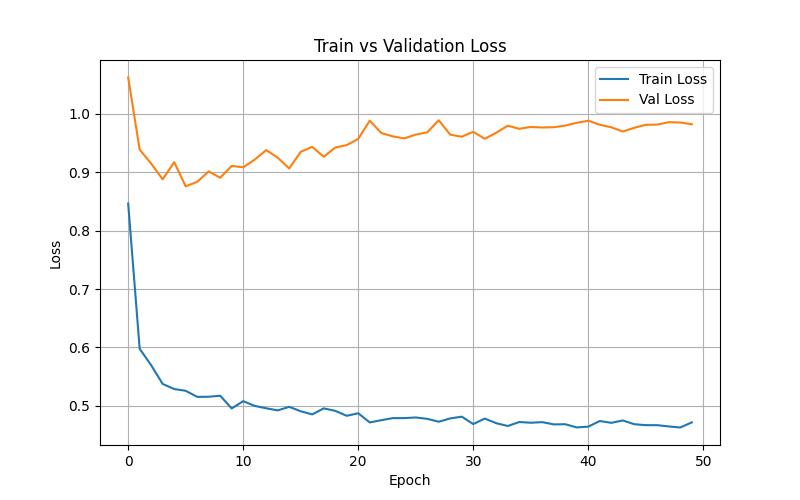
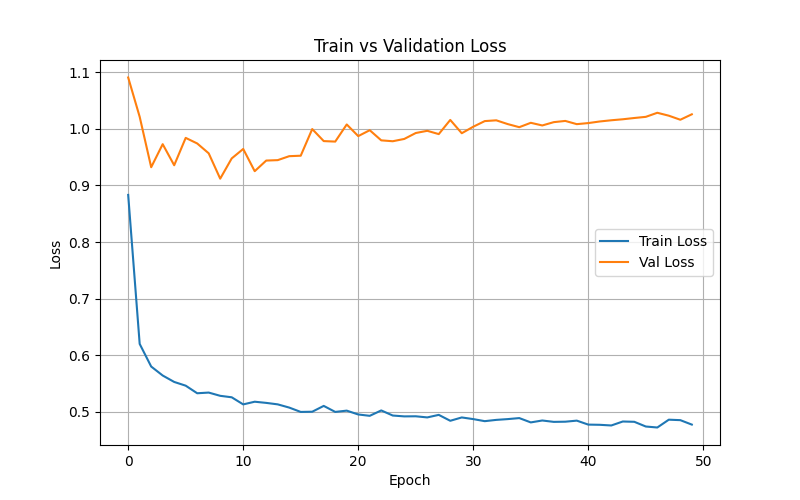
fix: change optimizer

diff --git a/train/train_cnn_lstm.py b/train/train_cnn_lstm.py
@@ -36,7 +36,7 @@ FEATURE_COLUMN_PATTERN = re.compile(r"^feature(\d+)_t(\d+)$")
 BATCH_SIZE = 32
 EPOCHS = 50
 LEARNING_RATE = 3e-4
-WEIGHT_DECAY = 3e-4
+WEIGHT_DECAY = 1e-4
 SCHEDULER_STEP_SIZE = 10
 SCHEDULER_GAMMA = 0.5
 VAL_RATIO = 0.2
@@ -312,7 +312,7 @@ def main():
     model = CNNLSTM(PER_STEP_FEATURE).to(device)
     # 완만한 class weights를 적용해 다수 클래스(hold) 편향을 줄인다.
     criterion = nn.CrossEntropyLoss(weight=class_weights)
-    optimizer = torch.optim.Adam(
+    optimizer = torch.optim.AdamW(
         model.parameters(),
         lr=LEARNING_RATE,
         weight_decay=WEIGHT_DECAY,